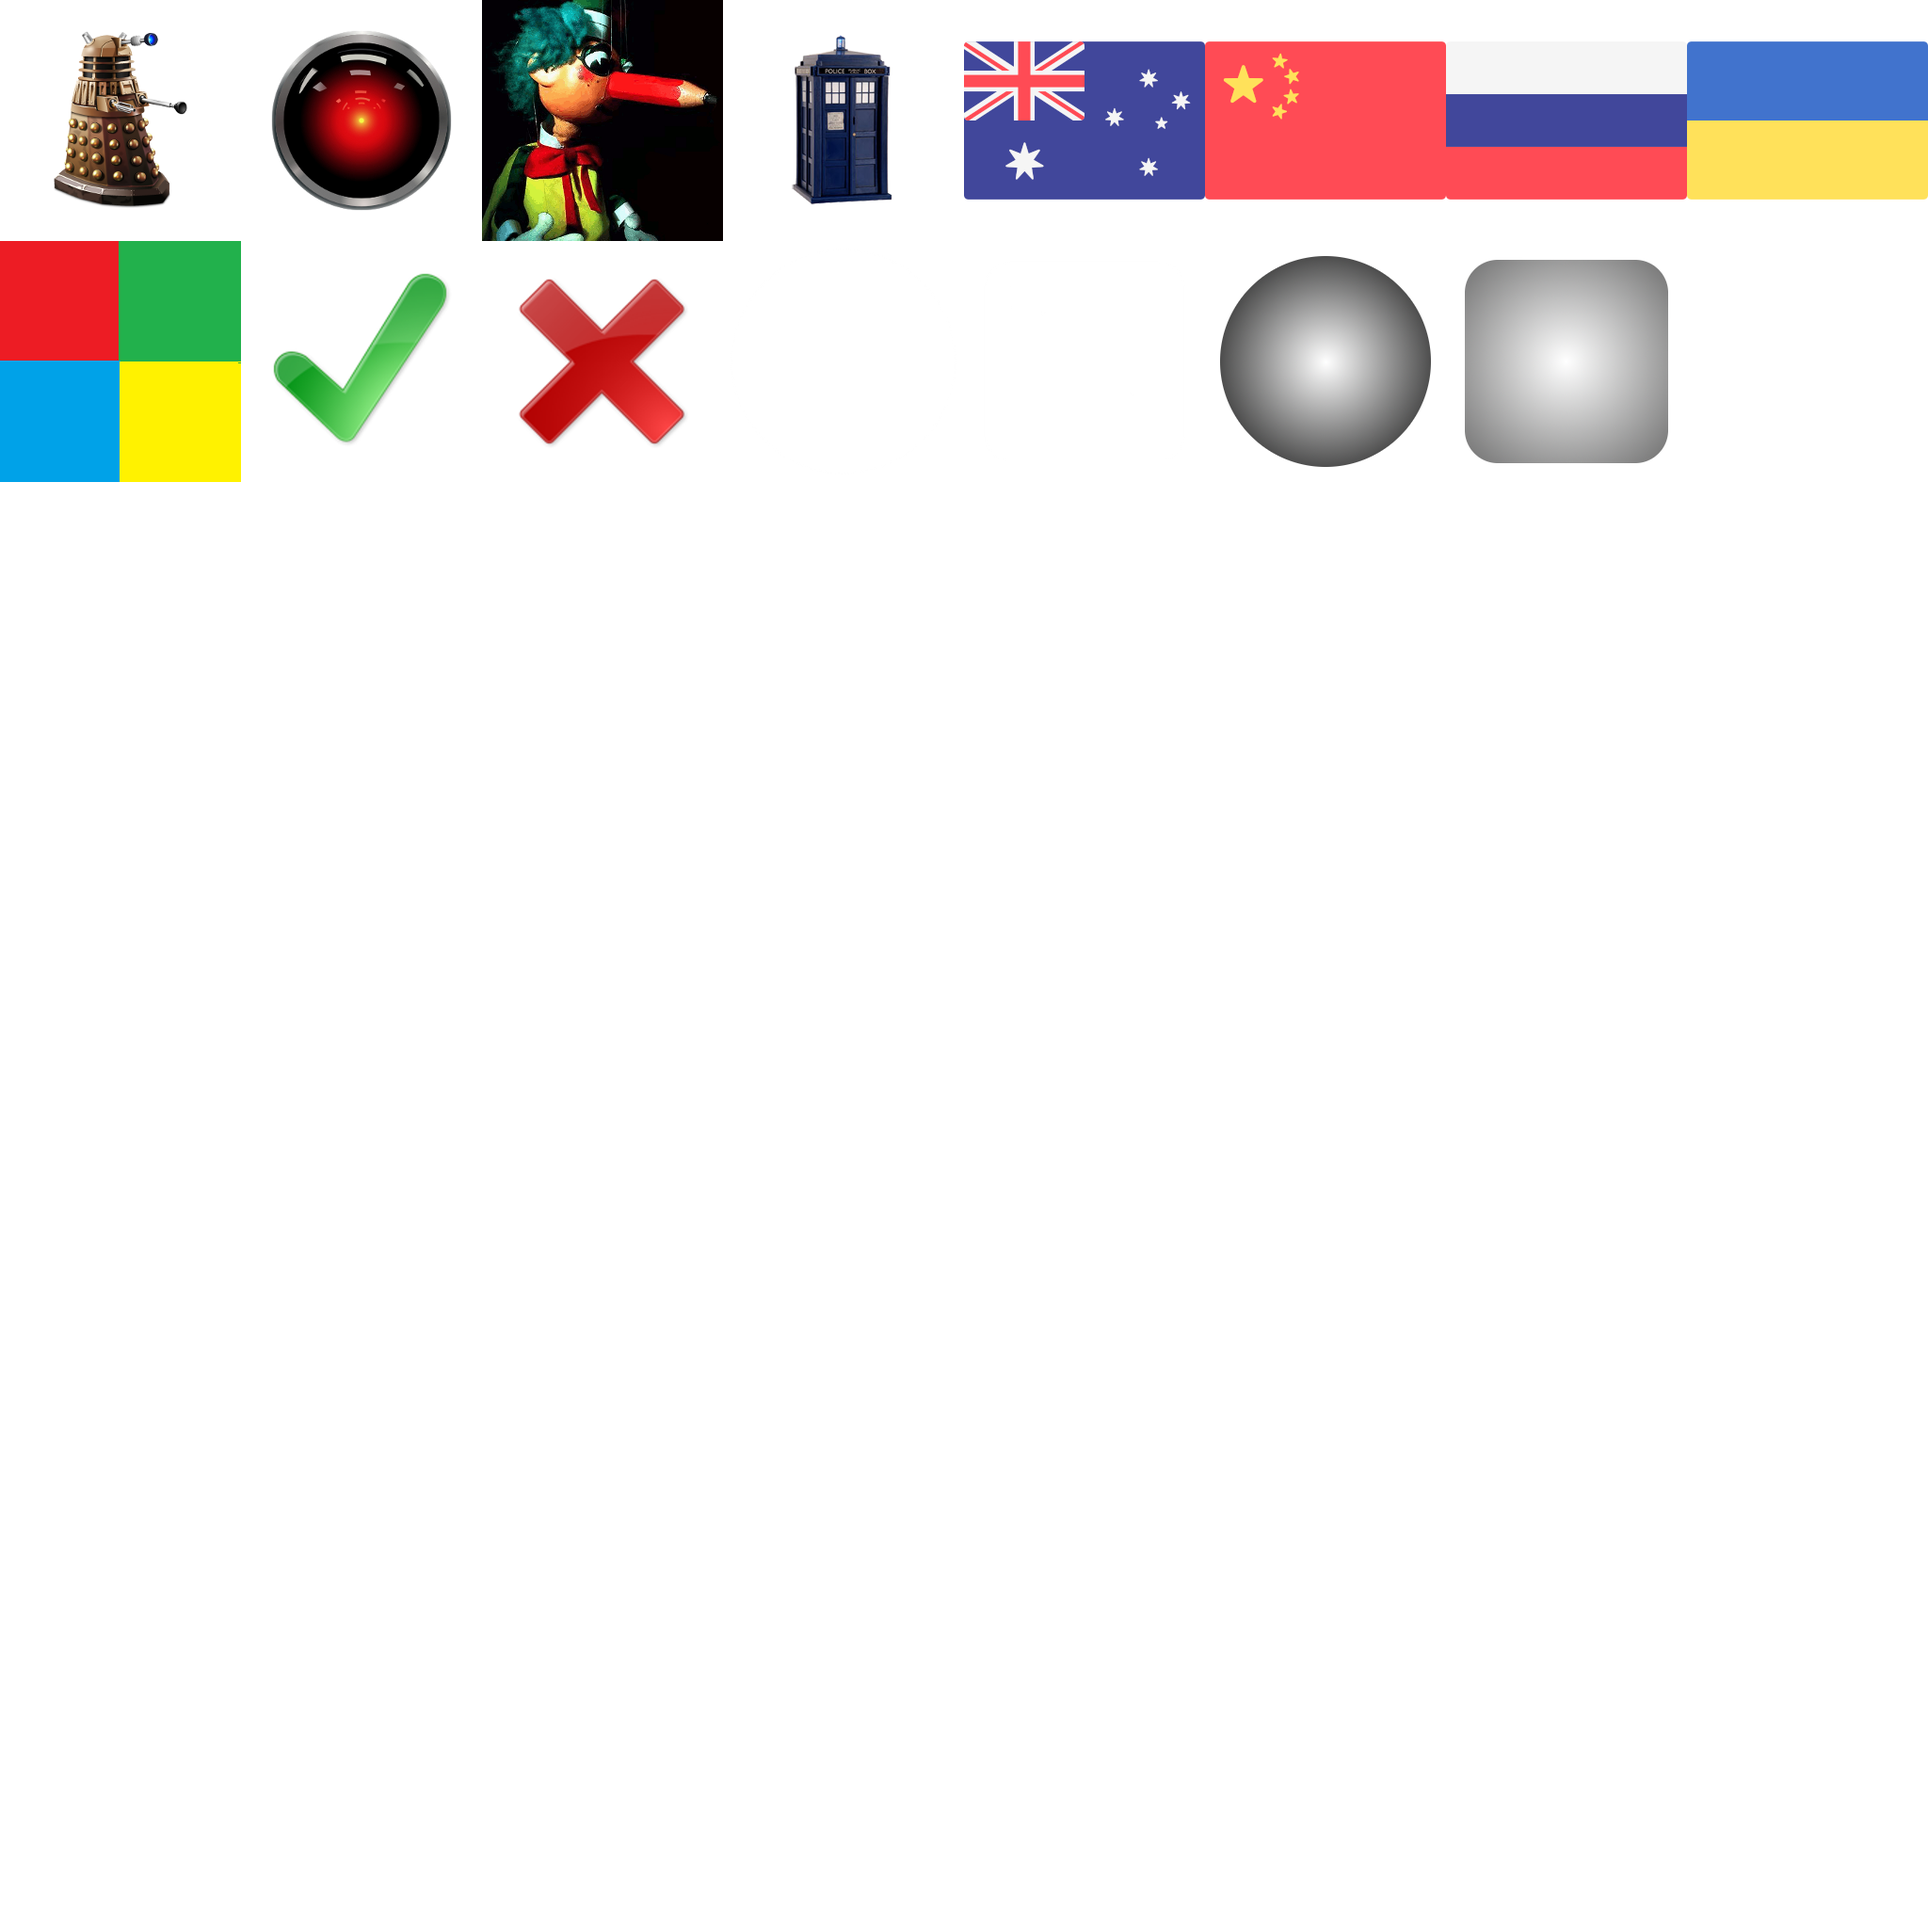
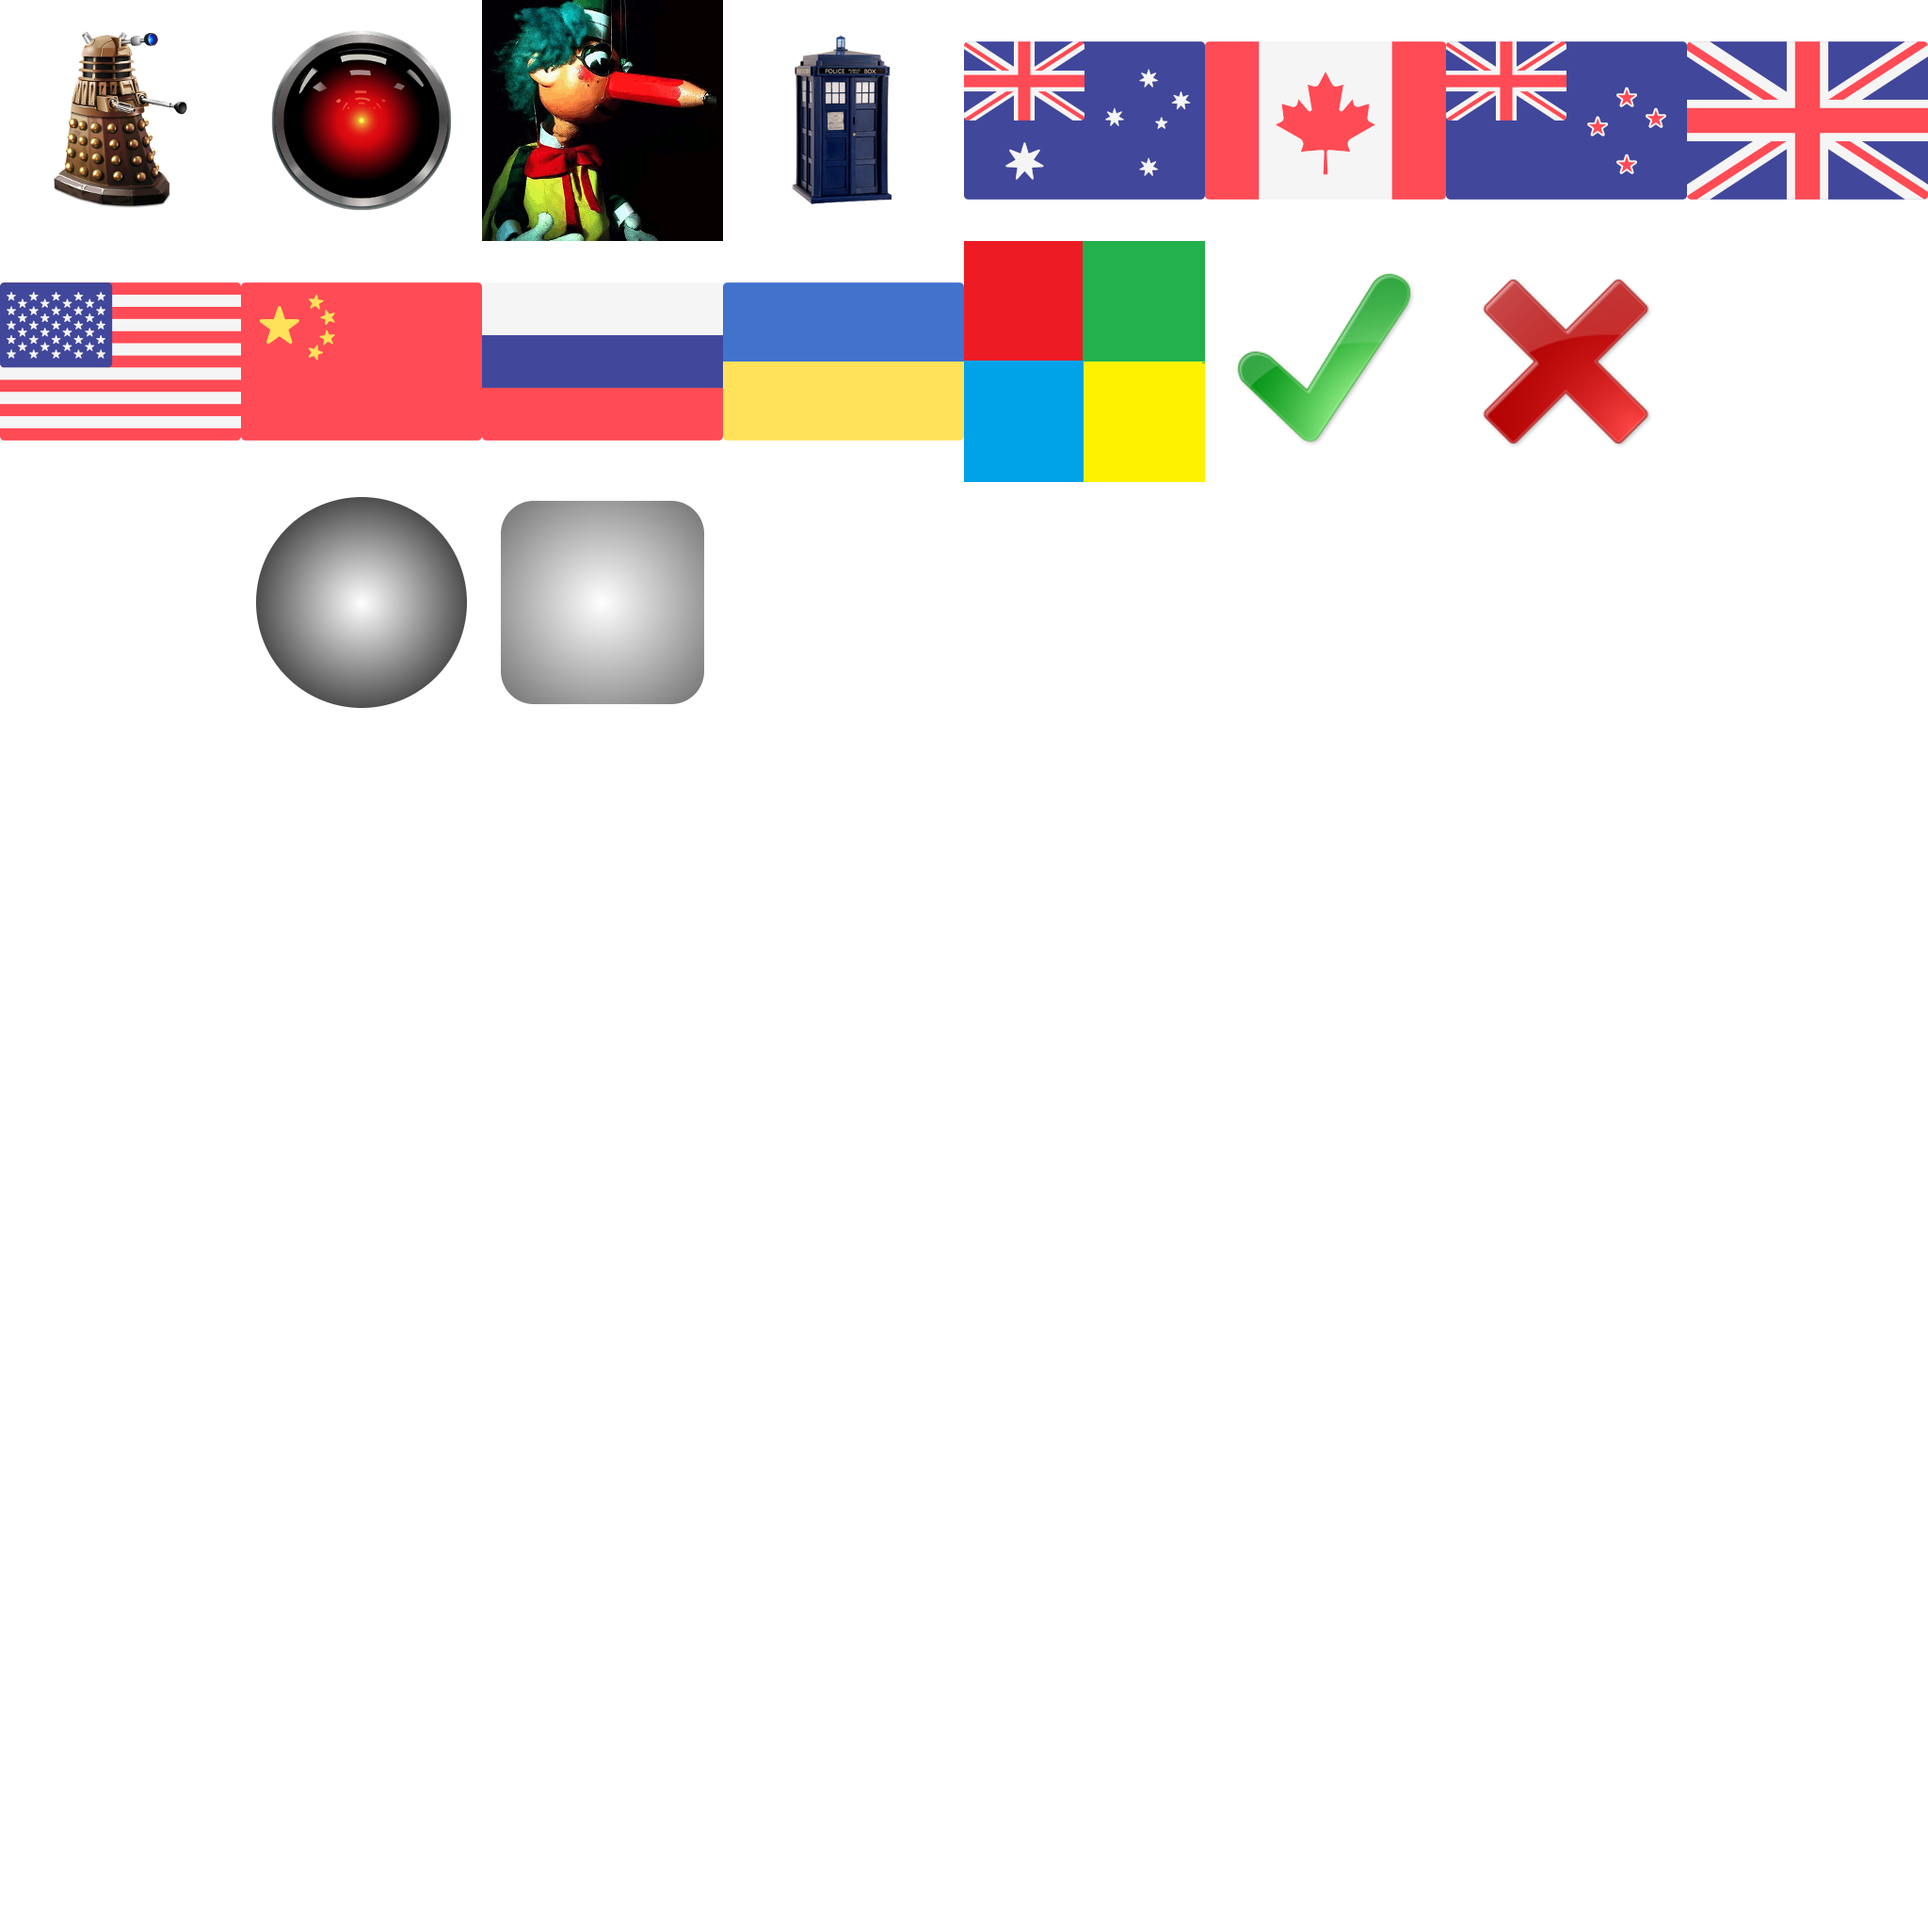
Graph tweaks.

Changed region(s): [[0.0, 0.0, 1.0, 0.375]]

diff --git a/resources/graph-util.js b/resources/graph-util.js
@@ -143,18 +143,19 @@ function sphereBuilder(n) {
   // ... and some specific nodes and transactions.
   //
   const V = vxs.length;
-  for (const [x,y,z] of [
-    [-sphereRadius,  sphereRadius,  sphereRadius],
-    [ sphereRadius,  sphereRadius,  sphereRadius],
-    [ sphereRadius, -sphereRadius,  sphereRadius],
-    [-sphereRadius, -sphereRadius, -sphereRadius],
-    [-sphereRadius,  sphereRadius, -sphereRadius],
-    [ sphereRadius,  sphereRadius, -sphereRadius],
+  const baseTex = textureIndex('australia');
+  for (const [x,y,z,tex] of [
+    [-sphereRadius,  sphereRadius,  sphereRadius, 0],
+    [ sphereRadius,  sphereRadius,  sphereRadius, 1],
+    [ sphereRadius, -sphereRadius,  sphereRadius, 2],
+    [-sphereRadius, -sphereRadius, -sphereRadius, 3],
+    [-sphereRadius,  sphereRadius, -sphereRadius, 4],
+    [ sphereRadius,  sphereRadius, -sphereRadius, 5],
   ]) {
     vxs.push({
       x:x, y:y, z:z, r:NR,
       red:Math.random, gre:Math.random(), blu:Math.random(),
-      fg_tex:textureIndex('hal-9000'), bg_tex:textureIndex('round_circle')
+      fg_tex:baseTex+tex, bg_tex:textureIndex('round_circle')
     });
   }
 
@@ -163,30 +164,34 @@ function sphereBuilder(n) {
   txs.push({
     vx0:V+0, vx1:V+1,
     red:1, gre:0, blu:0,
-    w:2
+    w:32
   });
   txs.push({
     vx0:V+1, vx1:V+2,
     red:0, gre:1, blu:0,
-    w:4
+    w:32
   });
   txs.push({
     vx0:V+3, vx1:V+4,
     red:0, gre:0, blu:1,
-    w:6
+    w:32
   });
   txs.push({
     vx0:V+4, vx1:V+5,
     red:1, gre:1, blu:0,
-    w:8
+    w:32
   });
   txs.push({
     vx0:V+1, vx1:V+5,
-    red:1, gre:0, blu:1,
-    w:10
+    red:1, gre:1, blu:1,
+    w:32
   });
 
-
+  txs.push({
+    vx0:V+0, vx1:V+4,
+    red:1, gre:1, blu:1,
+    w:32
+  })
 
   return {vxs:vxs, txs:txs};
 }
@@ -263,7 +268,7 @@ function convertZoomPointToDirection(canvasW, canvasH, clientX, clientY) {
 
 // These names must match the list of names in make_atlas.py.
 //
-const names = ['dalek', 'hal-9000', 'mr_squiggle', 'tardis', 'australia', 'china', 'russia', 'ukraine', 'check', 'true', 'false',
+const names = ['dalek', 'hal-9000', 'mr_squiggle', 'tardis', 'australia', 'canada', 'new_zealand', 'united_kingdom', 'united_states_of_america', 'china', 'russia', 'ukraine', 'check', 'true', 'false',
 'flat_circle', 'flat_square', 'round_circle', 'round_square', 'transparent'];
 
 function textureIndex(name) {

diff --git a/main.js b/main.js
@@ -70,10 +70,9 @@ function main() {
     const aspect = gl.canvas.clientWidth / gl.canvas.clientHeight;
 
     let modelMatrix = twgl.m4.identity();
-    // modelMatrix = m4.xRotate(modelMatrix, scene.yRot);
-    // modelMatrix = m4.yRotate(modelMatrix, scene.xRot);
-    modelMatrix = twgl.m4.rotateY(modelMatrix, scene.theta);
-    modelMatrix = twgl.m4.rotateX(modelMatrix, scene.phi);
+
+    modelMatrix = twgl.m4.rotateY(modelMatrix, scene.dx);
+    modelMatrix = twgl.m4.rotateX(modelMatrix, scene.dy);
 
     if (spin) {
       camera.eye[0] = Math.sin(time_d) * camDist;
@@ -83,8 +82,7 @@ function main() {
     // Make a view matrix from the camera matrix.
     const viewMatrix = m4.inverse(cameraMatrix);
 
-    const projectionMatrix =
-      m4.perspective(grut.FIELD_OF_VIEW, aspect, grut.CAMERA_NEAR, grut.CAMERA_FAR);
+    const projectionMatrix = twgl.m4.perspective(grut.FIELD_OF_VIEW, aspect, grut.CAMERA_NEAR, grut.CAMERA_FAR);
 
     matrices.model = modelMatrix;
     matrices.view = viewMatrix;
@@ -135,7 +133,6 @@ function main() {
   }
 
   canvas.addEventListener('mousedown', e => {
-    e.preventDefault();
     // scene.xMouse = e.offsetX;
     // scene.yMouse = e.offsetY;
     // scene.isDrawing = true;
@@ -145,15 +142,16 @@ function main() {
     scene.oldx = e.offsetX;
     scene.oldy = e.offsetY;
     // return false;
+    e.preventDefault();
   });
 
   canvas.addEventListener('mouseup', e => {
     // scene.isDrawing = false;
     scene.drag = false;
+    e.preventDefault();
   });
 
   canvas.addEventListener('mousemove', e => {
-    e.preventDefault();
     // if (scene.isDrawing) {
     //   scene.xRot += (e.offsetX - scene.xMouse) / 500;
     //   scene.yRot += (e.offsetY - scene.yMouse) / 500;
@@ -164,14 +162,16 @@ function main() {
     // }
 
     if (scene.drag) {
-      scene.dx = (e.offsetX-scene.oldx)*2*Math.PI/canvas.width;
-      scene.dy = (e.offsetY-scene.oldy)*2*Math.PI/canvas.height;
-      scene.theta += scene.dx;
-      scene.phi += scene.dy;
+      const dx = (e.offsetX-scene.oldx)*2*Math.PI/canvas.width;
+      const dy = (e.offsetY-scene.oldy)*2*Math.PI/canvas.height;
+      scene.dx += dx;
+      scene.dy += dy;
       scene.oldx = e.offsetX;
       scene.oldy = e.offsetY;
       requestAnimationFrame(drawScene);
-  }
+    }
+
+    e.preventDefault();
   });
 
   canvas.addEventListener('wheel', e => {

diff --git a/transactions.js b/transactions.js
@@ -1,7 +1,7 @@
 import * as twgl from './resources/4.x/twgl-full.module.js';
 
 const vs = `#version 300 es
-// precision highp float;
+precision highp float;
 uniform mat4 u_model;
 uniform mat4 u_view;
 uniform mat4 u_projection;
@@ -12,10 +12,19 @@ in vec3 xyz1; // The end vertex.
 in vec3 color;
 in float width;
 
-out vec3 f_color;
+out vec4 frag_color;
 out vec2 point;
 
 void main() {
+  if (position==0.0) {
+    // These are for arrowheads.
+    // We're not there yet.
+    //
+    gl_Position = vec4(0);
+    frag_color = vec4(0.0);
+    point = vec2(0.0);
+    return;
+  }
 
   vec4 xyz0_ = u_view * u_model * vec4(xyz0, 1.0);
   vec4 xyz1_ = u_view * u_model * vec4(xyz1, 1.0);
@@ -55,6 +64,8 @@ void main() {
   //
   offset *= position / 32.0;
 
+  // Multiply by the width from the graph.
+  //
   offset *= width;
 
   // A line is built from two triangles; two vertices from one end,
@@ -68,7 +79,7 @@ void main() {
 
   gl_Position = u_projection * corner;
 
-  f_color = color;
+  frag_color = vec4(color, 1.0);
 
   // Pass the xy coordinate of this vertex out.
   // The coordinates will be interpolated across the line
@@ -83,19 +94,23 @@ void main() {
 const fs = `#version 300 es
 precision highp float;
 
-in vec3 f_color;
+in vec4 frag_color;
 in vec2 point;
 
 out vec4 outColor;
 
 void main() {
-  outColor = vec4(f_color, 0.75);
+  if (frag_color.a==0.0) {
+    discard;
+  } else {
+    outColor = frag_color;
 
-  // Darken the edges?
-  //
-  float x = abs(point.x-0.5);
-  if (x>=0.2) {
-    outColor *= 1.2-x;
+    // Darken the edges?
+    //
+    float x = abs(point.x-0.5);
+    if (x>=0.2) {
+      outColor.rgb *= 1.2-x;
+    }
   }
 }
 `;
@@ -136,7 +151,12 @@ class Transactions {
     // We just use these to get the correct number of vertices
     // (and to make the corner offsets draw correctly).
     //
-    const pos = [-1.0, 1.0, 1.0, 1.0, -1.0, -1.0];
+    const pos = [
+      -1.0,  1.0,  1.0,
+       1.0, -1.0, -1.0,
+       0, 0, 0, // arrowhead
+       0, 0, 0, // arrowhead
+    ];
 
     // Pass the two ends of each line at the same time to each vertex.
     // We need to know both ends at once to calculate distances and arrowhead sizes.

diff --git a/make_atlas.py b/make_atlas.py
@@ -5,7 +5,7 @@ from PIL import Image, ImageDraw
 
 # Update graph-util.js when changing these.
 #
-IMAGES = ['dalek', 'hal-9000', 'mr_squiggle', 'tardis', 'australia', 'china', 'russia', 'ukraine', 'check', 'true', 'false']
+IMAGES = ['dalek', 'hal-9000', 'mr_squiggle', 'tardis', 'australia', 'canada', 'new_zealand', 'united_kingdom', 'united_states_of_america', 'china', 'russia', 'ukraine', 'check', 'true', 'false']
 IMAGES_BG = ['flat_circle', 'flat_square', 'round_circle', 'round_square', 'transparent']
 
 def open_images(image_names):
@@ -18,17 +18,17 @@ def open_images(image_names):
 
     return imgs
 
-def atlas_linear(image_names):
-    imgs = open_images(image_names)
-    atlas = Image.new('RGBA', (256*len(imgs), 256), '#0000')
-    print(atlas)
-    # draw = ImageDraw.Draw(atlas)
-    for i,im in enumerate(imgs):
-        x,y = i*256, 0
-        atlas.paste(im, (x, y))
-        print(f'{i:2} {im} {x:3} {y:3}')
+# def atlas_linear(image_names):
+#     imgs = open_images(image_names)
+#     atlas = Image.new('RGBA', (256*len(imgs), 256), '#0000')
+#     print(atlas)
+#     # draw = ImageDraw.Draw(atlas)
+#     for i,im in enumerate(imgs):
+#         x,y = i*256, 0
+#         atlas.paste(im, (x, y))
+#         print(f'{i:2} {im} {x:3} {y:3}')
 
-    return atlas
+#     return atlas
 
 def atlas_8x8(image_names):
     imgs = open_images(image_names)
